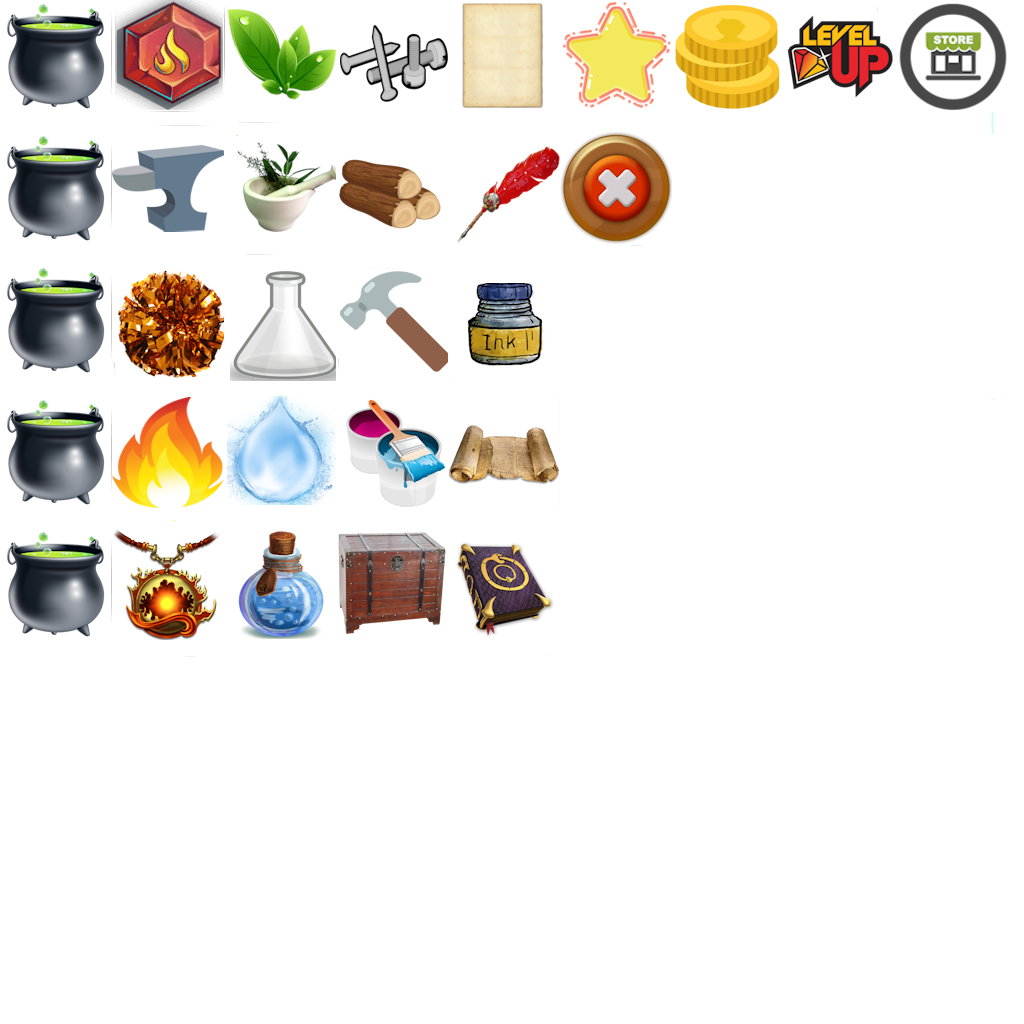
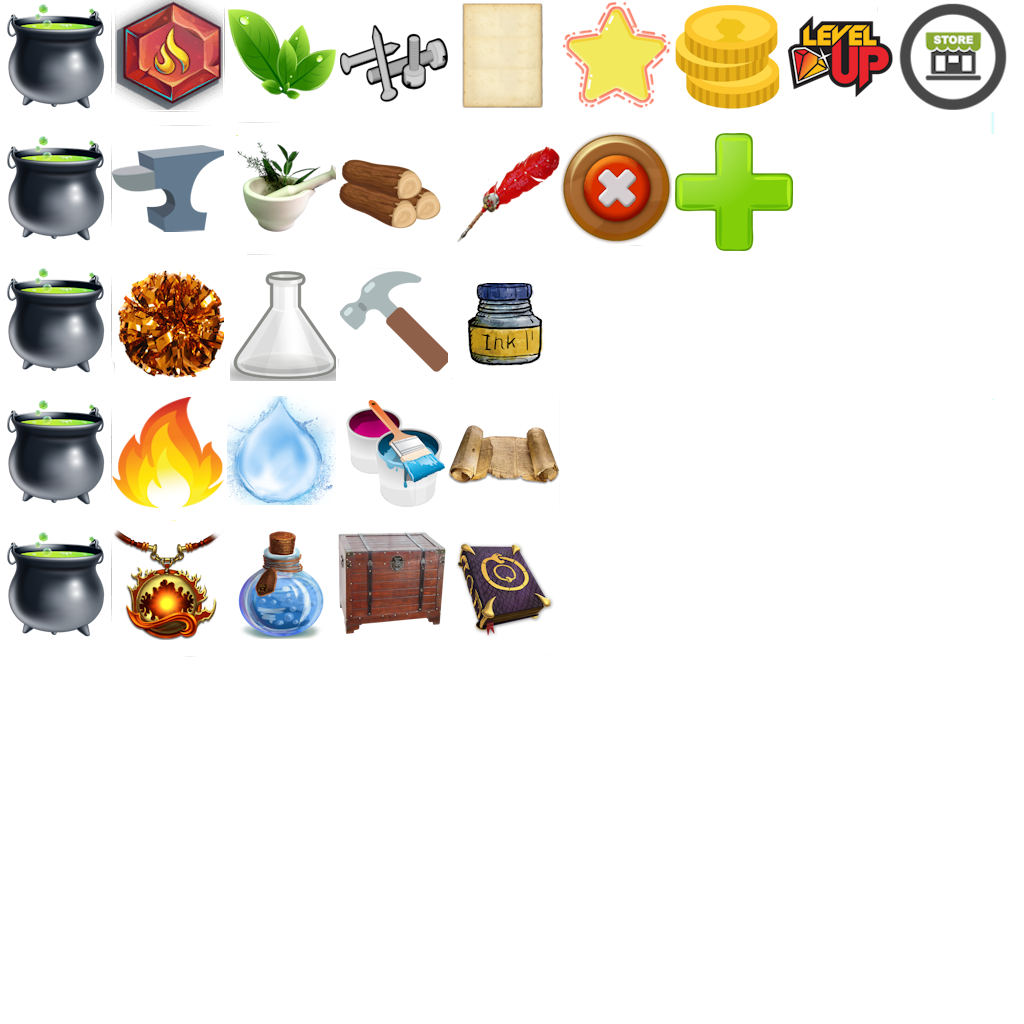
Окно покупок: - костяк окна покупки бонусов и монет.

Changed region(s): [[0.6562, 0.125, 0.7812, 0.25]]

diff --git a/core/src/com/merge/game/objects/gui/windows/WindowShopGold.java b/core/src/com/merge/game/objects/gui/windows/WindowShopGold.java
@@ -1,8 +1,15 @@
 package com.merge.game.objects.gui.windows;
 
 import com.merge.game.logic.api.InAppApi;
+import com.merge.game.logic.player_data.Player;
+import com.merge.game.objects.DisplayObject;
 import com.merge.game.objects.gui.elements.labels.Label;
 import com.merge.game.objects.gui.windows.elements.ShopItemGold;
+import com.merge.game.resources.Fonts;
+import com.merge.game.resources.Vocab;
+import com.merge.game.resources.textures.TextureItems;
+
+import java.util.Locale;
 
 public class WindowShopGold extends Window {
 
@@ -11,6 +18,8 @@ public class WindowShopGold extends Window {
     public WindowShopGold() {
         super(1.0f, 0.5f, 0.45f, true);
         initShopItems();
+        setTitle(Vocab.textShop[Vocab.lang].toUpperCase());
+        initPlayerCoins();
     }
 
     private void initShopItems(){
@@ -32,5 +41,18 @@ public class WindowShopGold extends Window {
             item.setCenterCoeff(0.27f + 0.23f * i, 0.57f);
         }
 
+    }
+
+    private void initPlayerCoins(){
+        createObject(TextureItems.gold, 0.12f,  0.35f, 0.84f);
+
+        DisplayObject frame = createObject(TextureItems.panelBonusCount, 0.32f,  0.59f,  0.84f);
+        _labelCoins = frame.createLabel(Fonts.fontXXSmall, "", 0, 0);
+        updateLabelCoins();
+    }
+
+    private void updateLabelCoins(){
+        _labelCoins.setText("" + Player.get().getGold());
+        _labelCoins.setCenterCoeff(0.5f, 0.45f);
     }
 }

diff --git a/core/src/com/merge/game/resources/textures/TextureItems.java b/core/src/com/merge/game/resources/textures/TextureItems.java
@@ -5,7 +5,7 @@ import com.badlogic.gdx.graphics.g2d.TextureRegion;
 
 public class TextureItems {
 
-    public static TextureRegion buttonStart, generateKettle, score, gold, level, trash, clear,
+    public static TextureRegion buttonStart, generateKettle, score, gold, level, trash, clear, plus,
             taskField, taskAbledButton, taskDisabledButton, fade, broken, gridPanel, window, windowShop, buttonClose, buttonBuy, panelBonusCount, panelPlayerGold;
     public static TextureRegion coinsBuySmall, coinsBuyMedium, coinsBuyLarge;
     public static TextureRegion bonusPanel, bonusSquare, bonusCount, bonusFixGenerate, bonusMaxItem, bonusMagicGenerator, bonusRandomGenerator;
@@ -248,6 +248,7 @@ public class TextureItems {
         level = new TextureRegion(texture, 784, 0, 116, 116);
         trash = new TextureRegion(texture, 896, 0, 109, 109);
         clear = new TextureRegion(texture, 560, 132, 112, 112);
+        plus = new TextureRegion(texture, 674, 130, 120, 120);
     }
 
     private static void initTasks() {

diff --git a/core/src/com/merge/game/objects/gui/windows/WindowShop.java b/core/src/com/merge/game/objects/gui/windows/WindowShop.java
@@ -7,6 +7,7 @@ import com.merge.game.objects.gui.elements.Button;
 import com.merge.game.objects.gui.elements.labels.Label;
 import com.merge.game.objects.gui.windows.elements.ShopItem;
 import com.merge.game.resources.Fonts;
+import com.merge.game.resources.Vocab;
 import com.merge.game.resources.textures.TextureItems;
 
 public class WindowShop extends Window {
@@ -17,6 +18,7 @@ public class WindowShop extends Window {
     public WindowShop(boolean canShowRewardVideo) {
         super(0.95f, 0.5f, 0.45f, true);
         initShopItems();
+        setTitle(Vocab.textShop[Vocab.lang].toUpperCase());
         initPlayerCoins();
     }
 
@@ -36,6 +38,8 @@ public class WindowShop extends Window {
         DisplayObject frame = createObject(TextureItems.panelPlayerGold, 0.32f, 0.59f, 0.84f);
         _labelCoins = frame.createLabel(Fonts.fontXXSmall, "", 0, 0);
         updateLabelCoins();
+
+        _buttonAddGold = frame.createButton(TextureItems.plus, 0.39f, 1.05f, 0.5f);
     }
 
     @Override

diff --git a/core/src/com/merge/game/resources/Vocab.java b/core/src/com/merge/game/resources/Vocab.java
@@ -6,5 +6,13 @@ public class Vocab {
     public static final int RUSSIAN = 1;
     public static int lang = ENGLISH;
 
-    public static final String[] textGold = {"Coins", "Золото"};
+    public static final String[] textGold = {
+            "Coins",
+            "Золото"
+    };
+
+    public static final String[] textShop = {
+            "Shop",
+            "Магазин"
+    };
 }

diff --git a/core/src/com/merge/game/objects/DisplayObject.java b/core/src/com/merge/game/objects/DisplayObject.java
@@ -362,7 +362,7 @@ public class DisplayObject {
         return object;
     }
 
-    protected Button createButton(TextureRegion texture, float widthCoeff, float cx, float cy) {
+    public Button createButton(TextureRegion texture, float widthCoeff, float cx, float cy) {
         Button button = new Button(texture);
         addChild(button);
         button.scaleToWidth(widthCoeff);
